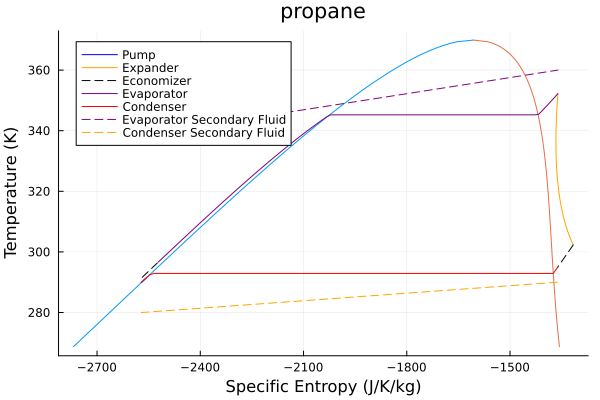
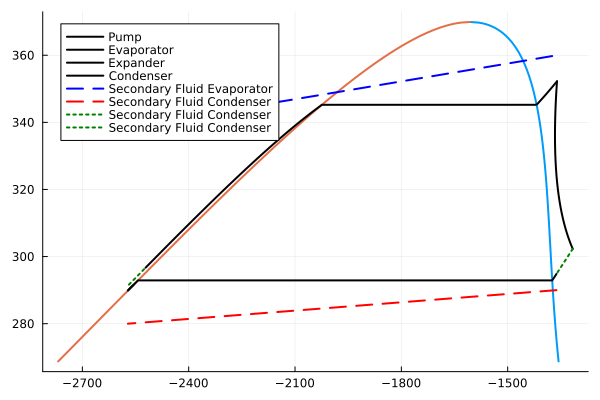
updated docs and readme

diff --git a/docs/src/examples.md b/docs/src/examples.md
@@ -70,11 +70,11 @@ julia> fluid = cPR(["propane"],idealmodel = ReidIdeal);
 julia> orc = ORC(fluid = fluid,z = [1.0], T_evap_in = 360, T_evap_out = 340, T_cond_in = 280, T_cond_out = 290, η_expander = 0.75, η_pump = 0.8, ΔT_sh = 7.0, ΔT_sc= 3.0, pp_evap = 3.0, pp_cond = 3)
 ORC{Float64}(PR{ReidIdeal, TwuAlpha, NoTranslation, vdW1fRule}("Propane"), [1.0], 360.0, 340.0, 7.0, 280.0, 290.0, 3.0, 0.8, 0.75, 3.0, 3.0)
 
-julia> sol = solve(orc,ThermoCycleParameters())
-SolutionState{Float64, Int64}([27.24650730390755, 8.310317972863196], 6, 3, [1.943476490851026e-10, -2.1819346329721157e-8], [19.921551772573725, 6.969208543698516], [29.511108921525086, 9.094386318669063], true, 0, 1.1554874341578823e-5, 2.1820211851973873e-8, :subcritical)
+julia> sol = solve(orc,ThermoCycleParameters(autodiff=false))
+SolutionState{Float64, Int64}([27.24650730018187, 8.310317975013438], 15, 3, [5.294850780046545e-9, -1.1973043001489714e-8], [19.921551772573725, 6.969208543698516], [29.511108921525086, 9.094386318669063], false, 2, 1.1554828892488157e-5, 1.3091569940174529e-8, :subcritical)
 
 julia> η(orc,sol)
--0.08885630488485266
+-0.08885630486192948
 ```
 
 *Note:* Here, the efficiency is also negative as there is an enthalpy drop of the working fluid in the expander while there is an enthalpy gain in the evaporator. 
@@ -82,7 +82,9 @@ julia> η(orc,sol)
 To plot the ORC cycle: 
 
 ```julia
-julia> plot_cycle(orc,sol,N=300)
+julia> using Plots
+
+julia> plot(orc,sol,N =300)
 ```
 
 ![orc_propane](Images/orc_propane.png)
@@ -94,11 +96,11 @@ As for the heatpump we now construct the ORC with internal heat exchanger.
 ```julia
 julia> orc_ihex = ORCEconomizer(orc=orc,ϵ=0.7);
 
-julia> sol_ihex = solve(orc_ihex,ThermoCycleParameters())
-SolutionState{Float64, Int64}([26.973845637899313, 8.391221086633655], 6, 3, [3.3583091862965375e-10, -3.281326144133345e-8], [19.921551772573725, 6.969208543698516], [29.511108921525086, 9.094386318669063], true, 0, 1.4417396042634078e-5, 3.2814979945494535e-8, :subcritical)
+julia> sol_ihex = solve(orc_ihex,ThermoCycleParameters(autodiff=false))
+SolutionState{Float64, Int64}([26.973845640165056, 8.391221086120005], 15, 3, [-3.0100864023552276e-9, -3.514094260026468e-8], [19.921551772573725, 6.969208543698516], [29.511108921525086, 9.094386318669063], false, 2, 1.4416423095843544e-5, 3.5269625274231946e-8, :subcritical)
 
 julia> η(orc_ihex,sol_ihex)
--0.09082835333090268
+-0.0908283533392522
 ```
 ![ORC_economizer_example_cycle](Images/orc_economizer_cycle_example.png)
 
@@ -139,15 +141,21 @@ Solution type: subcritical
 
 
 # Plotting 
-To plot the cycle use the following API: 
+To plot the cycle use first load Plots.jl. Then follow:
 
 ```julia
-plot_cycle(prob::ThermoCycleProblem,sol::SolutionState,N=100)
+plot(prob::ThermoCycleProblem,sol::SolutionState,kwargs...)
+```
+
+To just plot the TS diagram of the fluid do:
+
+```julia
+plot(fluid::EoSModel,z::AbstractVector,kwargs...)
 ```
 
 # Limitation
 
-1. Fluid models are limited to the ones provided by default in Clapeyron.jl
-2. For now the solver is stable for sub-critical parameters. So if incase the solver does converge please check if the parameters provided allow the solution to be subcritical. 
-3. For mixtures, it is recommended to use parameters sufficently below the critical point.  
-4. If for solving `autodiff = true` then for the first run there will be some compile time. Subsequent runs will be faster. 
+1. Fluid models are limited to the ones provided by default in Clapeyron.jl. Now restricted to `CubicModel` and `SingleFluid` models. 
+2. For now the solver is stable for sub-critical parameters. So if incase the solver does not converge please check if the parameters provided allow the solution to be subcritical. 
+3. For mixtures, it is recommended to use parameters sufficently below the critical point as sometimes near crictical zone the computation of dew and bubble points can fail.   
+4. If for solving with `autodiff = true`, the first run will have significant compilation time. The subsequent runs will be faster.

diff --git a/README.md b/README.md
@@ -55,7 +55,7 @@ julia> plot(hp,sol_hp,N = 100)
 
 # Limitation
 
-1. Fluid models are limited to the ones provided by default in Clapeyron.jl, now restricted to `CubicModel` and `SingleFluid` model. 
-2. For now the solver is stable for sub-critical parameters. So if incase the solver does converge please check if the parameters provided allow the solution to be subcritical. 
-3. For mixtures, it is recommended to use parameters sufficently below the critical point.  
-4. If for solving `autodiff = true` then for the first run there will be some compile time. Subsequent runs will be faster. 
+1. Fluid models are limited to the ones provided by default in Clapeyron.jl. Now restricted to `CubicModel` and `SingleFluid` models. 
+2. For now the solver is stable for sub-critical parameters. So if incase the solver does not converge please check if the parameters provided allow the solution to be subcritical. 
+3. For mixtures, it is recommended to use parameters sufficently below the critical point as sometimes near crictical zone the computation of dew and bubble points can fail.   
+4. If for solving with `autodiff = true`, the first run will have significant compilation time. The subsequent runs will be faster.

diff --git a/docs/src/optimization.md b/docs/src/optimization.md
@@ -22,7 +22,7 @@ algo = ECA(options = options)
 
 We optimize the system
 ```julia
-result,hp_optimized = ThermoCycleGlides.optimize(hp,algo; autodiff = true,N = 20,lower = 2.0,tol = 1e-3)
+julia> result,hp_optimized = ThermoCycleGlides.optimize(hp,algo,ThermoCycleParameters())
 ```
 
 ```julia
@@ -110,8 +110,8 @@ To plot the cycle we do as before but now the optimized cycle is already returne
 **Note:** This is a metaheuristic method hence the converged answer for the user for this case can slighty be different based on number of function calls , time, solution etc ..
 
 ```julia
-sol = solve(hp_optimized,autodiff = true,N = 20,xtol = 1e-6,ftol = 1e-6,max_iter= 1000);
-plot_cycle(hp_optimized,sol;N = 300)
+sol = solve(hp_optimized,ThermoCycleParameters());
+plot(hp_optimized,sol,N = 100)
 ```
 
 The `HeatPump` cycle before optimization had a COP of `-3.23`
